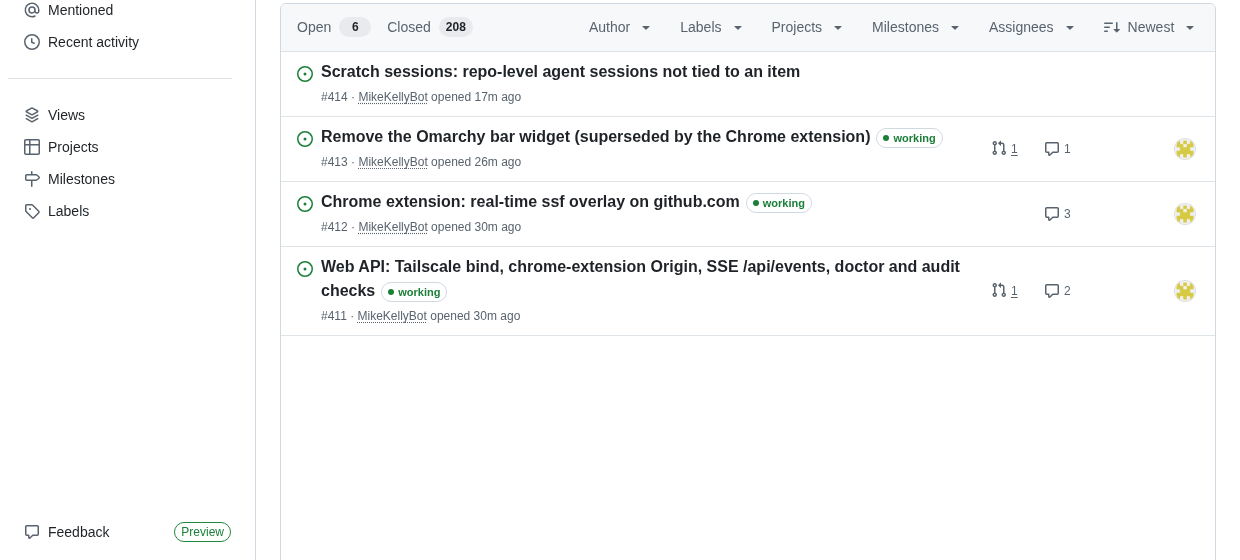
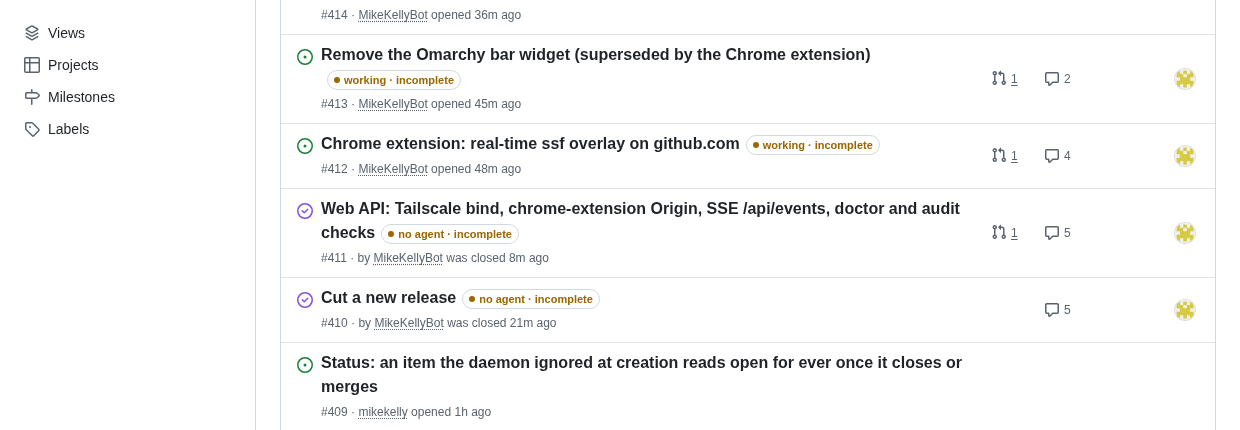
Review: act on the row clicked, and show a factory's own warning
Three defects from an independent review of the pinned diff:

- Remove acted on a list position, not on the row it belongs to. `collect()`
  skips the rows nobody filled in, so a blank row ahead of the clicked one
  shifted every later position down and Remove deleted its neighbour: with
  rows [blank, A, B], Remove on A kept A and deleted B, and the next Save
  wrote that list and revoked B's host permission. Entries now carry the row
  element and Remove filters by it.

- Add and Remove re-render from `collect()`, which turned a row that is not a
  factory URL yet into `url: null` and blanked the field on the way back out,
  losing a paste. Entries keep the text as typed and a row renders it until it
  has a canonical URL.

- The snapshot's `warning` reached the content script and was never rendered,
  so a factory flagging its own status -- an inactive service, an unreachable
  VM, an unavailable driver, an overdue poll -- looked exactly like live state.
  That is the distinction the README claims and the TUI paints as
  `UNAVAILABLE / STALE`; the badge now reads `... · incomplete` with the
  factory's own words on hover, and the chip tooltip says the same.

Refs #412

diff --git a/chrome-extension/options.js b/chrome-extension/options.js
@@ -24,17 +24,21 @@ function show(message) {
 /// The list as edited, with each URL in its canonical form. Returns the rows
 /// that are not usable factory URLs, so Save can name them instead of storing
 /// them.
+///
+/// Each entry carries the row element it came from and the text as typed, so a
+/// control acts on that row rather than on a position: rows nobody filled in
+/// are skipped, so a position in this list is not a position among the rows.
 function collect() {
   const list = [];
   const invalid = [];
-  for (const row of rows.querySelectorAll("[data-row]")) {
-    const label = row.querySelector(".label").value.trim();
-    const raw = row.querySelector(".url").value.trim();
+  for (const box of rows.querySelectorAll("[data-row]")) {
+    const label = box.querySelector(".label").value.trim();
+    const text = box.querySelector(".url").value.trim();
     // A row nobody filled in is not a factory.
-    if (!raw && !label) continue;
-    const url = factoryUrl(raw);
-    if (!url) invalid.push(raw || `the row labelled ${label}`);
-    list.push({ label, url });
+    if (!text && !label) continue;
+    const url = factoryUrl(text);
+    if (!url) invalid.push(text || `the row labelled ${label}`);
+    list.push({ box, label, text, url });
   }
   return { list, invalid };
 }
@@ -59,13 +63,13 @@ function render() {
     rows.append(empty);
     return;
   }
-  entries.forEach((entry, index) => rows.append(row(entry, index)));
+  entries.forEach((entry) => rows.append(row(entry)));
 }
 
-function row(entry, index) {
+function row(entry) {
   const box = document.createElement("div");
   box.className = "row";
-  box.dataset.row = String(index);
+  box.dataset.row = "";
 
   const label = document.createElement("label");
   label.className = "field label-field";
@@ -85,16 +89,17 @@ function row(entry, index) {
   urlInput.type = "text";
   urlInput.spellcheck = false;
   urlInput.placeholder = "http://host:8787/<secret>/";
-  urlInput.value = entry.url ?? "";
+  // What was typed, so a row that is not a factory URL yet keeps its text
+  // through Add, Remove and the re-render they cause.
+  urlInput.value = entry.url ?? entry.text ?? "";
   url.append(urlInput);
 
   const state = document.createElement("span");
   state.className = "state";
-  const canonical = factoryUrl(entry.url);
-  if (!canonical) {
-    state.textContent = entry.url ? "not a factory URL" : "not saved yet";
+  if (!entry.url) {
+    state.textContent = urlInput.value ? "not a factory URL" : "not saved yet";
     state.dataset.state = "missing";
-  } else if (granted.get(originPattern(canonical))) {
+  } else if (granted.get(originPattern(entry.url))) {
     state.textContent = "allowed";
     state.dataset.state = "allowed";
   } else {
@@ -106,7 +111,7 @@ function row(entry, index) {
   allow.type = "button";
   allow.className = "allow";
   allow.textContent = "Allow";
-  allow.disabled = !canonical || Boolean(granted.get(originPattern(canonical)));
+  allow.disabled = !entry.url || Boolean(granted.get(originPattern(entry.url)));
   allow.addEventListener("click", async () => {
     const current = factoryUrl(box.querySelector(".url").value);
     if (!current) {
@@ -129,7 +134,7 @@ function row(entry, index) {
   remove.className = "remove";
   remove.textContent = "Remove";
   remove.addEventListener("click", () => {
-    entries = collect().list.filter((_, position) => position !== index);
+    entries = collect().list.filter((entry) => entry.box !== box);
     render();
     show("Removed. Save to keep the change.");
   });
@@ -154,7 +159,7 @@ async function requestMissing() {
 
 add.addEventListener("click", () => {
   entries = collect().list;
-  entries.push({ label: "", url: "" });
+  entries.push({ label: "", text: "", url: null });
   render();
   const inputs = rows.querySelectorAll(".url");
   inputs[inputs.length - 1]?.focus();

diff --git a/chrome-extension/content.js b/chrome-extension/content.js
@@ -99,10 +99,21 @@
   }
 
   /// `state` as this factory reports it, with a stale or unreachable factory
-  /// said out loud rather than shown as its last known state.
+  /// said out loud rather than shown as its last known state. A factory can
+  /// also flag its own snapshot as unreliable -- an inactive service, an
+  /// unreachable VM, an unavailable driver, an overdue poll -- which the TUI
+  /// paints as `UNAVAILABLE / STALE` and the server's web UI as "Status may be
+  /// incomplete"; that reads `incomplete` here.
   function reportedState(factory, state) {
     const name = state || "unknown";
     if (factory.state === "live") {
+      if (factory.warning) {
+        return {
+          text: `${name} \u00b7 incomplete`,
+          kind: "stale",
+          detail: `the factory says its status may be incomplete: ${factory.warning}`,
+        };
+      }
       return { text: name, kind: KIND[name] ?? "muted" };
     }
     if (factory.state === "stale") {
@@ -206,7 +217,7 @@
       described.push(
         `${factory.label}: ${facts.map((fact) => fact.text).join(" \u00b7 ")}${
           summary ? ` \u2014 ${summary}` : ""
-        }`,
+        }${factory.warning ? ` (status may be incomplete: ${factory.warning})` : ""}`,
       );
     }
     for (const factory of unreadable) {
@@ -237,7 +248,10 @@
       description: [
         fact.detail,
         ...matches.map(
-          ({ factory }) => `ssf factory ${factory.label} (${factory.state})`,
+          ({ factory }) =>
+            `ssf factory ${factory.label} (${factory.state}${
+              factory.warning ? ", status may be incomplete" : ""
+            })`,
         ),
       ]
         .filter(Boolean)

diff --git a/chrome-extension/README.md b/chrome-extension/README.md
@@ -63,6 +63,10 @@ title:
 
 ![A list of issues, each with a small ssf pill after its title](docs/issue-list.png)
 
+Both images are a scratch factory whose server runs outside the systemd unit it
+names, so every row in them also carries the `· incomplete` marker described
+below.
+
 - The harness, model, agent state and last activity are the factory's own
   fields, and the second line is the session's latest message or summary.
 - An item SSF monitors without an agent reads `no agent` with the item's title.
@@ -71,6 +75,10 @@ title:
   `unknown` with the reason. A broken factory is never silently shown as an idle
   one; the TUI makes the same distinction in [the dashboard
   guide](../docs/dashboard.md#session-dashboard).
+- A factory that flags its own snapshot as unreliable — an inactive service, an
+  unreachable VM, an unavailable driver, an overdue poll — reads
+  `… · incomplete`, with the factory's own words on hover. The TUI and the
+  server's web UI say the same thing about the same snapshot.
 - Items the factories do not know about are left alone.
 
 A card matches a page by `owner/repo#number`, from its originating issue or from

diff --git a/docs/dashboard.md b/docs/dashboard.md
@@ -128,8 +128,7 @@ Both endpoints accept an `Origin` of `http://<bind>:<port>` or any
 them; the `Host` header must still match the configured bind address and port.
 
 The optional [Chrome extension](../chrome-extension/README.md) is that client:
-it overlays this state on github.com, reading these endpoints rather than a
-browser tab.
+it overlays this state on github.com instead of in a browser tab.
 
 The built-in endpoint provides neither TLS nor user accounts. Remote web access
 from outside a tailnet requires a reverse proxy that:
